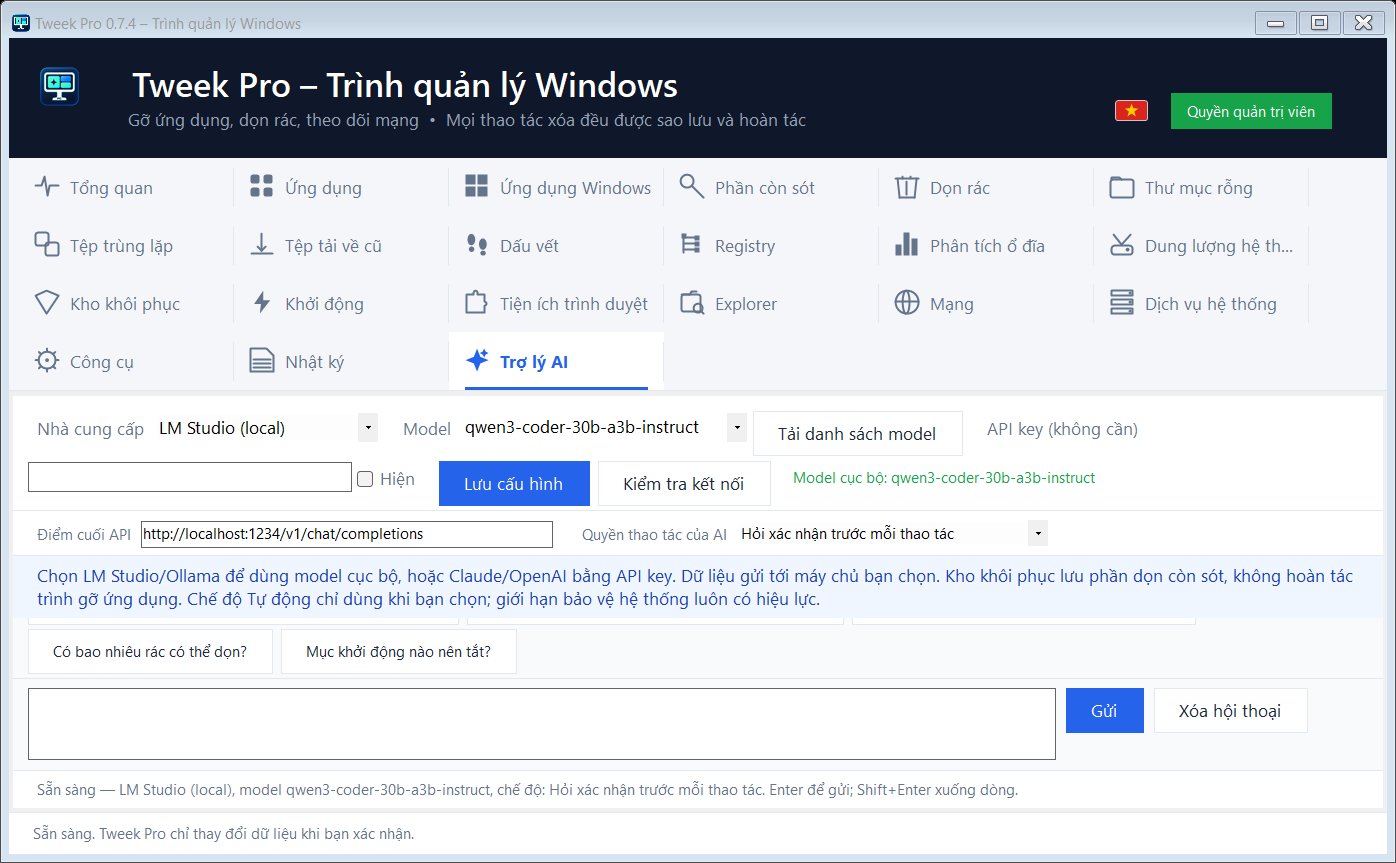
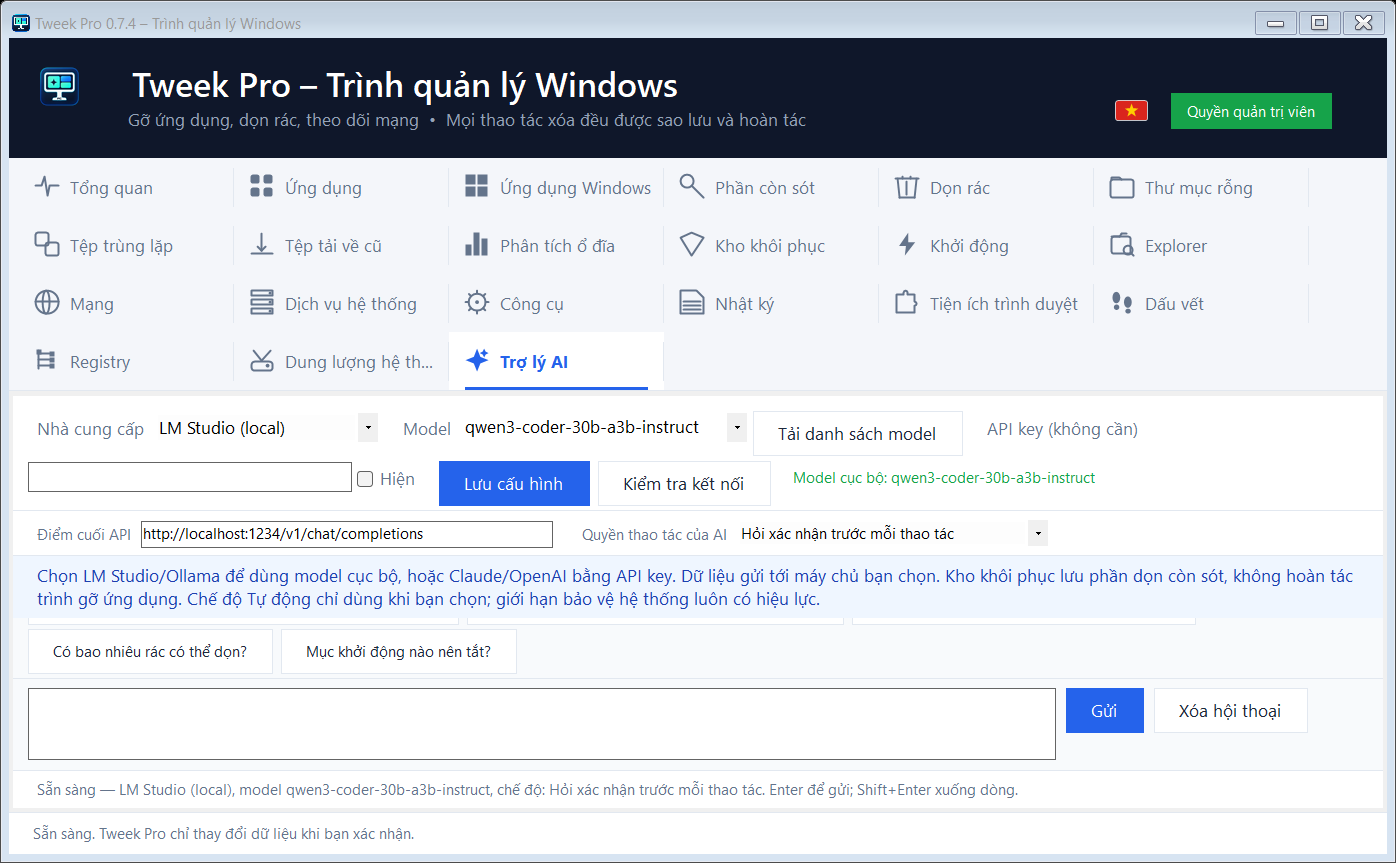
Tab order: move Tiện ích trình duyệt, Dấu vết, Registry, Dung lượng hệ thống to the end, right before Trợ lý AI; regenerate screenshots

diff --git a/App.cs b/App.cs
@@ -116,7 +116,7 @@ namespace TweekPro {
    BuildListMenus();
    // Canonical tab order: overview → inventory → cleanup family → recovery → system → diagnostics → AI assistant last.
    remnantsTab=clean;
-   var ordered=new TabPage[]{healthTab,installed,storeTab,clean,junkTab,emptyTab,dupeTab,staleTab,tracksTab,regTab,analyzerTab,spaceTab,vault,autorunTab,extTab,explorerTab,netTab,servicesTab,toolsTab,logs,aiTab};
+   var ordered=new TabPage[]{healthTab,installed,storeTab,clean,junkTab,emptyTab,dupeTab,staleTab,analyzerTab,vault,autorunTab,explorerTab,netTab,servicesTab,toolsTab,logs,extTab,tracksTab,regTab,spaceTab,aiTab};
    tabs.TabPages.Clear();tabs.TabPages.AddRange(ordered);
    foreach(TabPage page in tabs.TabPages)page.BackColor=Theme.Canvas;
    Controls.Add(tabs);Controls.Add(tabStrip);Controls.Add(header);Controls.Add(status);
@@ -400,7 +400,7 @@ namespace TweekPro {
   }
   /// <summary>Renders a form off-screen into a PNG next to the executable so the layout can be reviewed without interaction.</summary>
   /// <summary>Every tab in display order; --preview all renders one PNG per entry for the README gallery.</summary>
-  public static readonly string[] PreviewModes={"health","apps","store","remnants","junk","empty","dupes","stale","tracks","registry","analyzer","space","vault","autorun","extensions","explorer","tweaks","network","services","tools","logs","ai"};
+  public static readonly string[] PreviewModes={"health","apps","store","remnants","junk","empty","dupes","stale","analyzer","vault","autorun","explorer","tweaks","network","services","tools","logs","extensions","tracks","registry","space","ai"};
   static void ApplyPreview(MainForm form,string mode){
    if(mode=="autorun"||mode=="tools"||mode=="junk"||mode=="network"||mode=="health"||mode=="store"||mode=="services"||mode=="ai")form.PreviewAdvanced(mode);else if(mode=="apps")form.PreviewApps();else if(mode=="stale")form.PreviewStale();else if(mode=="tracks")form.PreviewTracks(true);else if(mode=="registry")form.PreviewRegistry();else if(mode=="space")form.PreviewSystemSpace();else if(mode=="extensions")form.PreviewExtensions();else if(mode=="explorer"||mode=="tweaks")form.PreviewExplorer(mode=="tweaks");else if(mode=="empty"||mode=="dupes"||mode=="analyzer"||mode=="vault"||mode=="logs")form.PreviewTab(mode);else if(mode!="")form.PreviewRemnants();
   }
